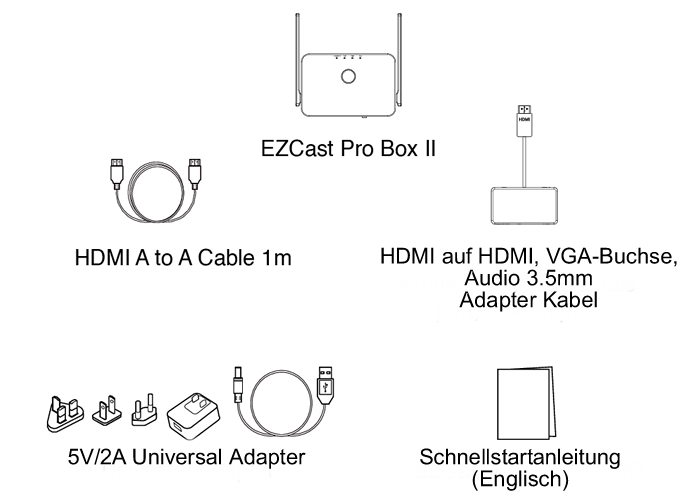
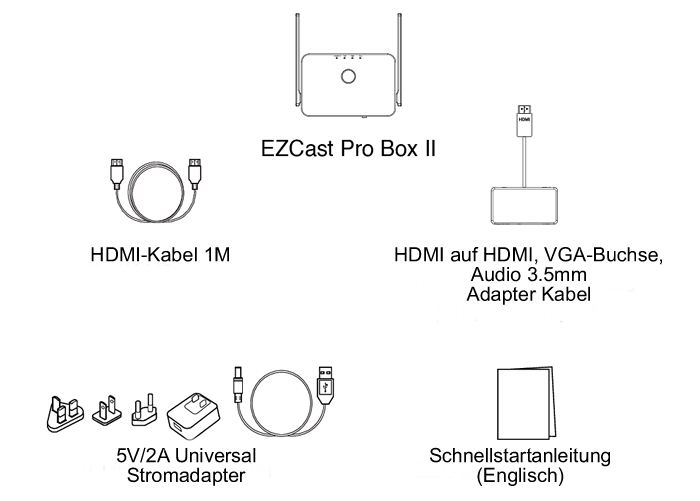
Text Updates + B10-Inhalte.png

diff --git a/src/Pro-Box-B10/quickstart.md b/src/Pro-Box-B10/quickstart.md
@@ -1,17 +1,15 @@
 > #### info::Hinweis
 >
-> Eine PDF-Version dieses Dokuments zum Ausdrucken finden Sie [hier](https://download.stueber.de/doc/de/ezcastpro/Schnellstartanleitung.EZCast.Pro.Stick.II.pdf).
-
-
+> Eine PDF-Version dieses Dokuments zum Ausdrucken finden Sie [hier](https://download.stueber.de/doc/de/ezcastpro/Schnellstartanleitung.EZCast.Pro.Box.II.pdf).
 
 
 # Inhalt der EZCast Pro Box II
 
-Die EZCast Pro Box II besteht aus einer EZCast Pro Box II (dem Empfänger), einem HDMI-Verlängerungskabel, USB-Kabel und einer Schnellstartanleitung (Englisch):
+Die EZCast Pro Box II besteht aus einer EZCast Pro II Box (dem Empfänger), einem HDMI Kabel 1M, einem HDMI auf HDMI VGA-Buchse, Audio 3.5mm Adapter Kabel, einem 5V/2A Universal Stromadapter und einer Schnellstartanleitung (Englisch):
 
 ![Inhalt der EZCast Pro Box II](/images/B10-Inhalte.png)
 
-Um die EZCast Pro Box II mit einem VGA-Anschluss z.B. mit einem älteren Beamer anschließen zu können, empfehlen wir einen [Adapter HDMI Buchse zu VGA Stecker](optimize.md#hdmi-auf-vga-adapter-hdmi-buchse-zu-vga-stecker).
+Um die EZCast Pro Box II mit einem VGA-Anschluss z.B. mit einem älteren Beamer anschließen zu können, nutzen Sie den mitgelieferten HDMI auf HDMI, VGA-Buchse, Audio 3.5mm Adapter Kabel.
 
 # EZCast Pro Box II anschließen {#Connect_ProBoxII}
 
